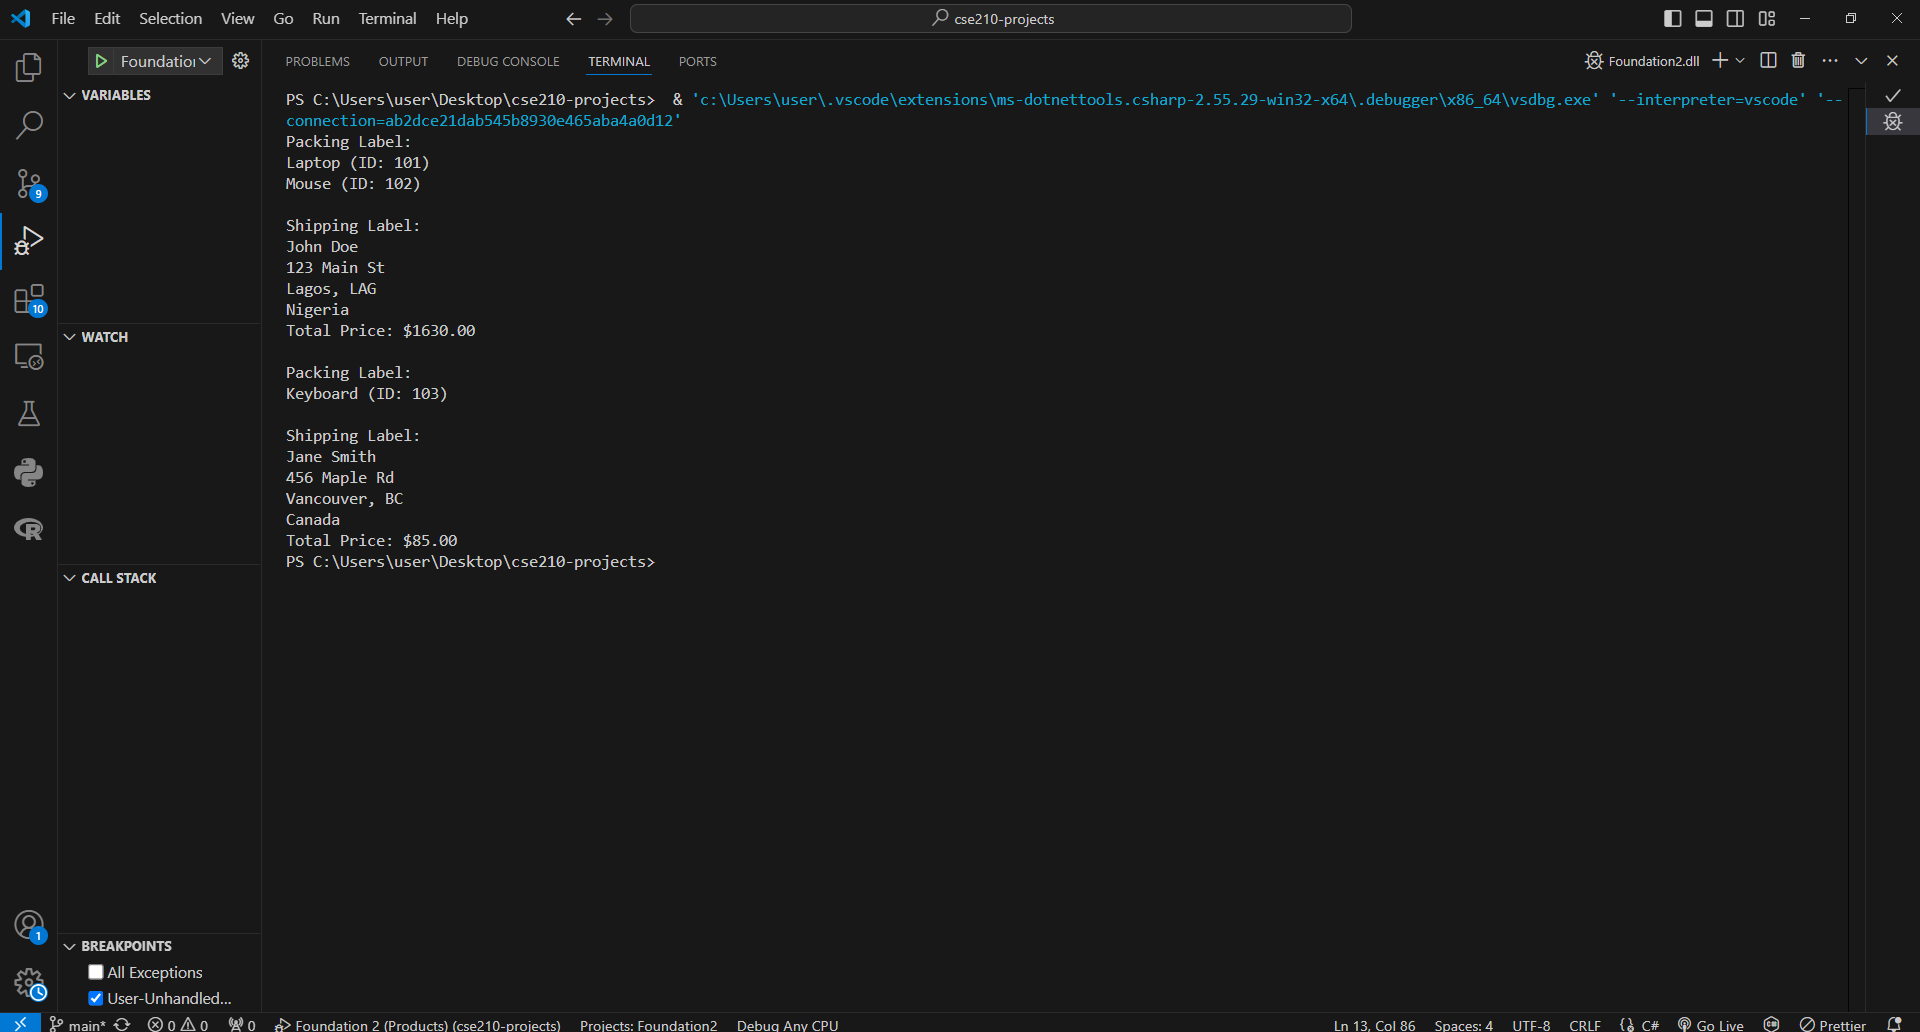
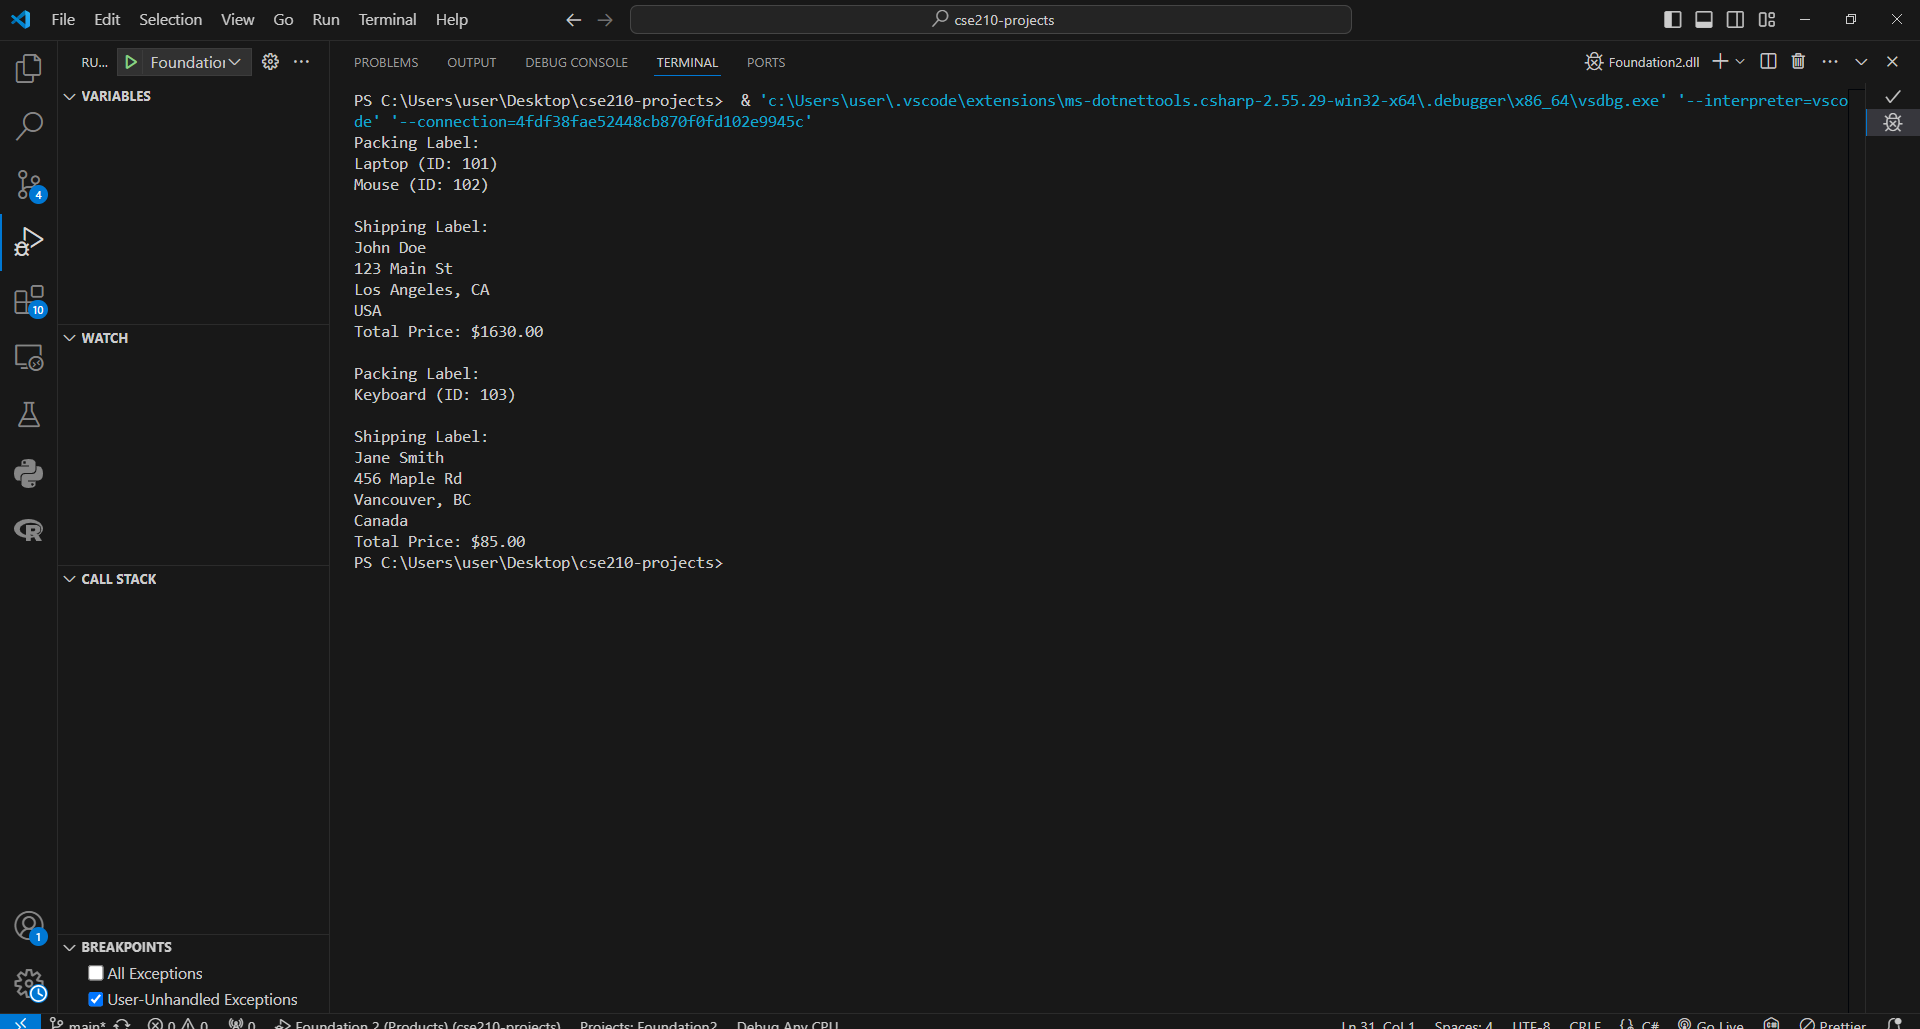
Foundation1 and 2

diff --git a/foundation/Foundation2/Order.cs b/foundation/Foundation2/Order.cs
@@ -9,7 +9,7 @@ public class Order
             this.customer = customer;
         }
 
-        // calculate the total cost of the order
+        // Method to calculate the total cost of the order
         public double GetTotalPrice()
         {
             double totalCost = 0;
@@ -20,7 +20,7 @@ public class Order
             }
 
             // Add the shipping cost based on the customer's location
-            double shippingCost = customer.IsInNigeria() ? 5.0 : 35.0;
+            double shippingCost = customer.IsInUSA() ? 5.0 : 35.0;
             totalCost += shippingCost;
 
             return totalCost;

diff --git a/foundation/Foundation2/Program.cs b/foundation/Foundation2/Program.cs
@@ -10,7 +10,7 @@ class Program
             Product product3 = new Product("Keyboard", 103, 50, 1);
 
             // Creating customers with different addresses
-            Address address1 = new Address("123 Main St", "Lagos", "LAG", "Nigeria");
+            Address address1 = new Address("123 Main St", "Los Angeles", "CA", "USA");
             Customer customer1 = new Customer("John Doe", address1);
 
             Address address2 = new Address("456 Maple Rd", "Vancouver", "BC", "Canada");

diff --git a/foundation/Foundation2/Address.cs b/foundation/Foundation2/Address.cs
@@ -14,9 +14,9 @@ public class Address
         }
 
         // Method to check if the address is in the USA
-        public bool IsInNigeria()
+        public bool IsInUSA()
         {
-            return country == "Nigeria";
+            return country == "USA";
         }
 
         // Method to return the full address as a formatted string

diff --git a/foundation/Foundation2/Customer.cs b/foundation/Foundation2/Customer.cs
@@ -10,9 +10,9 @@ public class Customer
         }
 
         // Method to check if the customer is in the USA
-        public bool IsInNigeria()
+        public bool IsInUSA()
         {
-            return address.IsInNigeria();
+            return address.IsInUSA();
         }
 
         // Method to return the customer name and address
